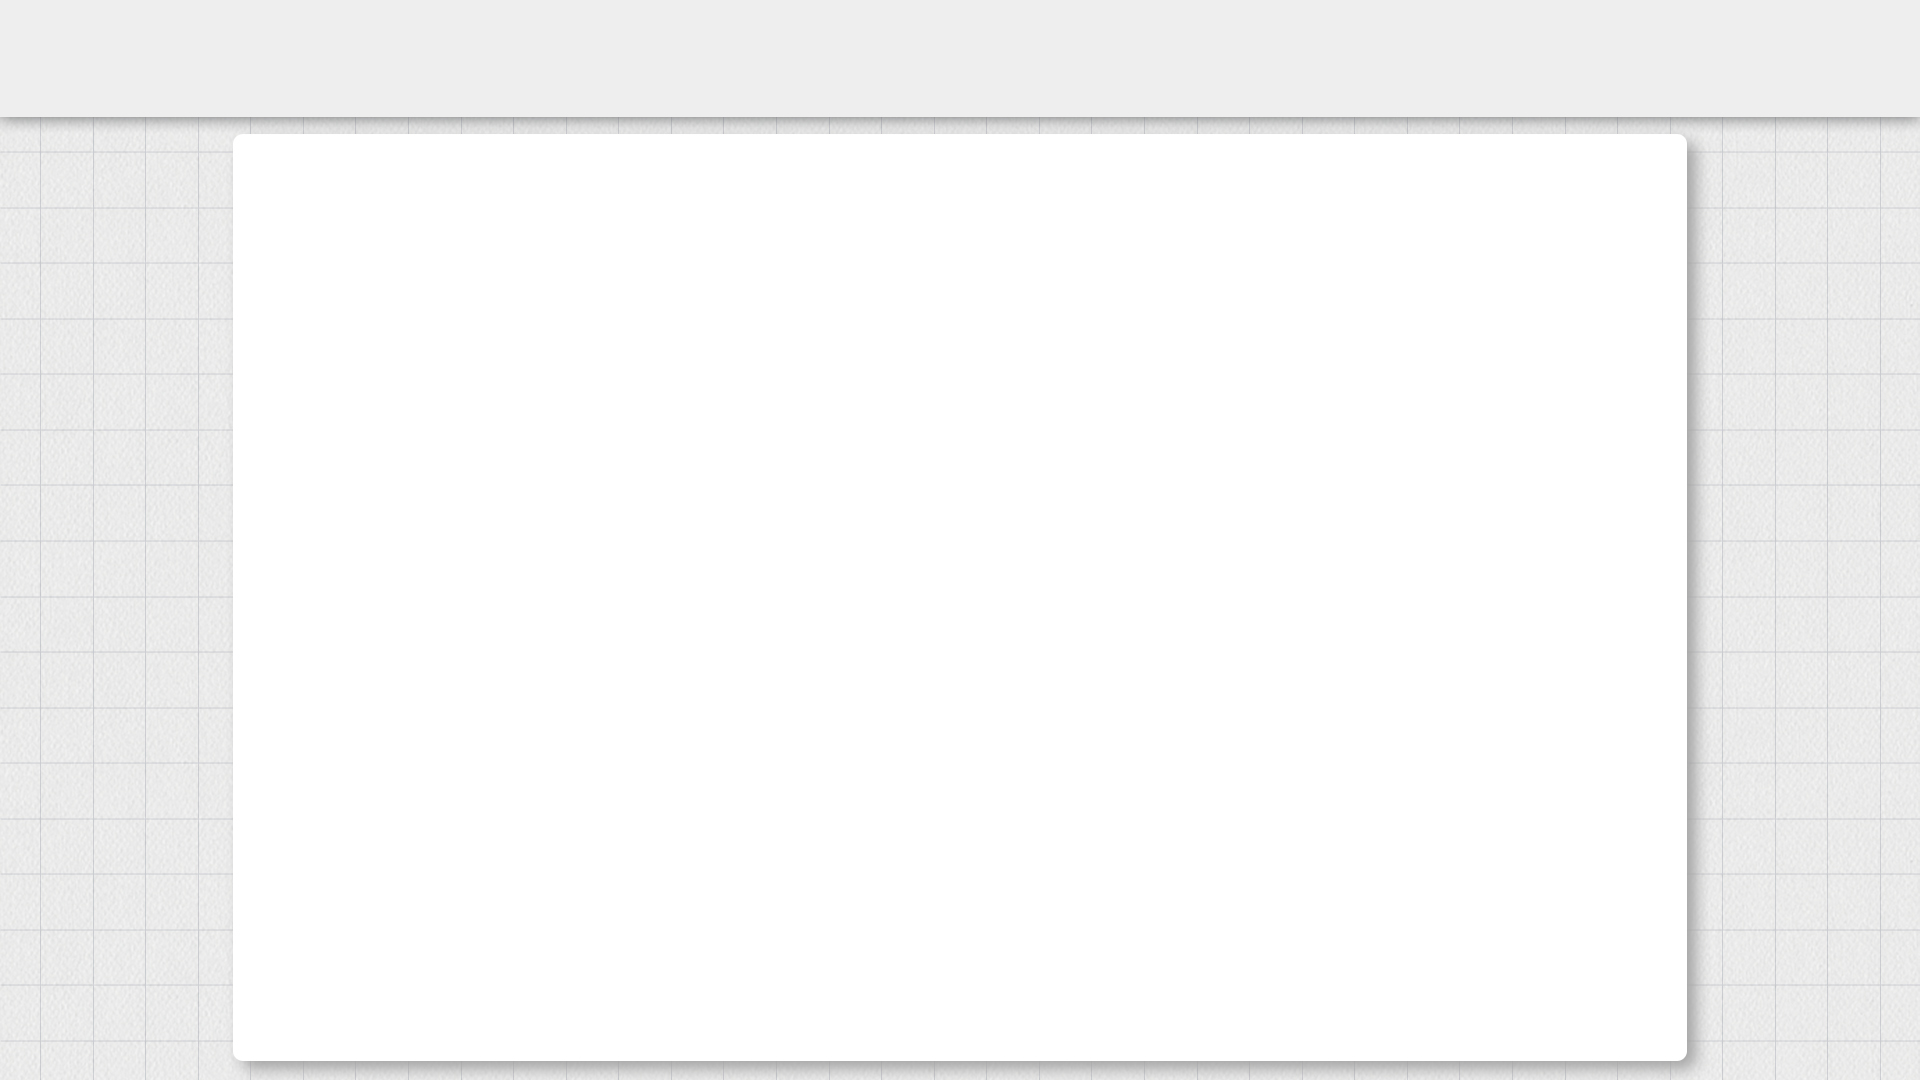
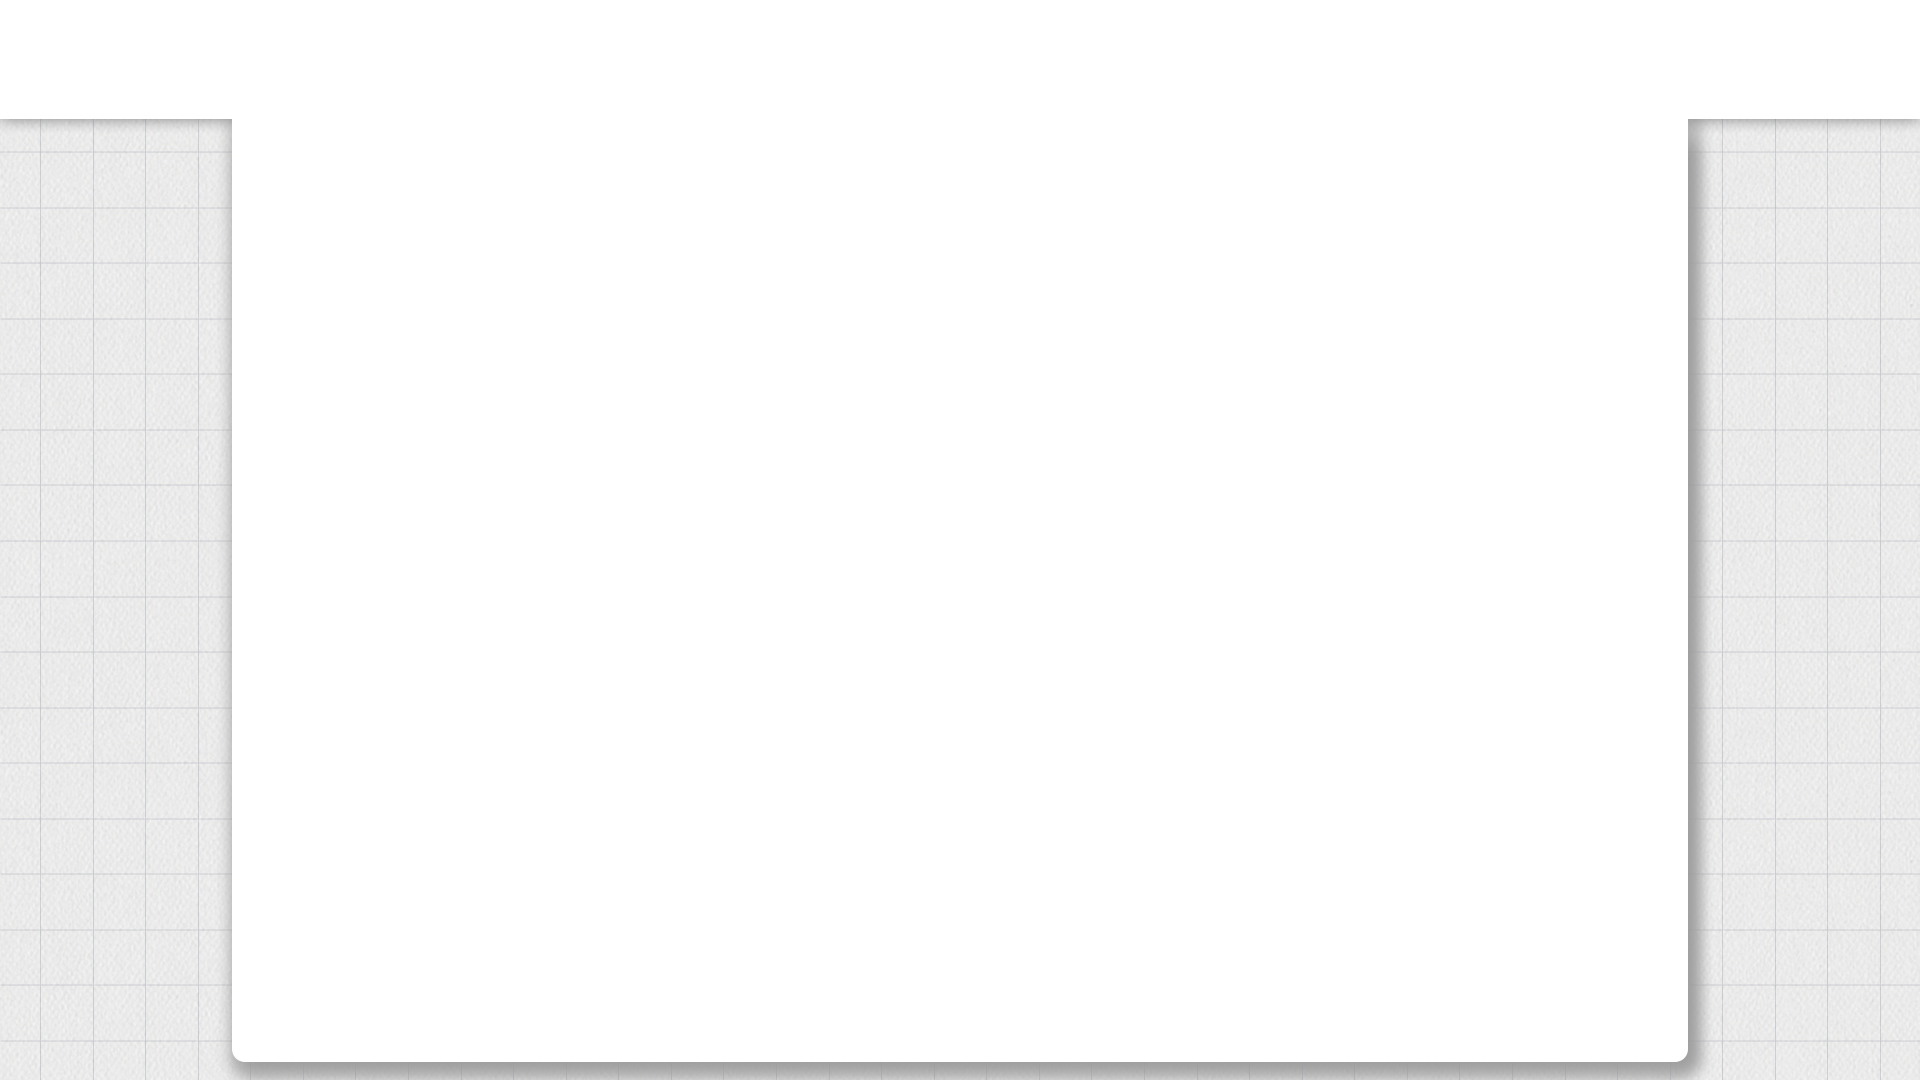
下拉菜单添加退出登录功能

Changed region(s): [[0.0938, 0.0917, 0.9062, 0.1528], [0.125, 0.9778, 0.9062, 1.0]]

diff --git a/src/components/NavigatorTabs.js b/src/components/NavigatorTabs.js
@@ -14,6 +14,10 @@ import ModalDropdown from 'react-native-modal-dropdown';
 import {DefaultTheme, NavigationContainer} from '@react-navigation/native';
 import {createNativeStackNavigator} from '@react-navigation/native-stack';
 import { log } from 'react-native-reanimated';
+import AsyncStorage from '@react-native-async-storage/async-storage';
+import {logout} from '../database/user'
+import Modal from '../components/Modal';
+import Button from '../components/Button';
 
 const Tab = createBottomTabNavigator();
 
@@ -63,6 +67,10 @@ const TabBar = ({state, navigation, descriptors, headerItems, pid}) => {
   } = React.useContext(GlobalContext);
 
   const {
+    dispatch,
+  } = React.useContext(Context);
+
+  const {
     state: {isTabBarShow},
   } = React.useContext(Context);
 
@@ -107,19 +115,35 @@ const TabBar = ({state, navigation, descriptors, headerItems, pid}) => {
     }
   };
 
-  
+  const [visible, setVisible] = React.useState(false);
+  const close = () => {
+    setVisible(false);
+  };
 
-  const type = ['采集平台', '数据同步','数据统计','用户设置']
+  const asklogOut = (route, index) => {
+    console.log('退出登录?');
+    setVisible(true)
+  }
+  const handleLogout = async () => {
+    await AsyncStorage.removeItem('userInfo');
+    await logout();
+    dispatch({type: 'userInfo', payload: null});
+    dispatch({type: 'isLogin', payload: false});
+    setVisible(false)
+  };
+
+  const type = ['采集平台', '数据同步','数据统计','用户设置','退出登录']
   
   // 分类选择
   _selectType = (indexA, value) => {
-    // console.log('---', indexA, value)
+    console.log('---', indexA, value)
       {state.routes.map((route, index) =>(
         indexA == '0' && indexA == index ? handlePress(route, index) :
         indexA == '1' && indexA == index ? handlePress(route, index) :
         indexA == '2' && indexA == index ? handlePress(route, index) :
         indexA == '3' && indexA == index ? handlePress(route, index) : <></>
       ))}
+      indexA == '4' ? asklogOut() : <></>
   }
   // 下拉列表分隔符
   _separator = () => {
@@ -145,22 +169,22 @@ const TabBar = ({state, navigation, descriptors, headerItems, pid}) => {
           {width: '100%'},
           tailwind.flexRow,
           // tailwind.flexGrow0,
-          theme.primaryBgStyle,
-          styles.boxShadow,
+          // theme.primaryBgStyle,
+          // styles.boxShadow,
           // styles.bgcolor,
-          {height},
-          {backgroundColor:'#eeeeee'}
+          // {height},
+          {backgroundColor:'rgba(255,255,255,0)'}
           // {top:50}
         ],
       ]}
       >
       {/* logo */}
-      <Image style={
+      {/* <Image style={
         { height: 55, width: 180, alignItems: 'center' }}
         source={require('../iconImg/logo.png')}
-      />
+      /> */}
       {/* 软件版本 */}
-      <Text
+      {/* <Text
         style={
           [
             {
@@ -172,9 +196,25 @@ const TabBar = ({state, navigation, descriptors, headerItems, pid}) => {
             }
           ]
         }
-      >v1.083</Text>
+      >v1.083</Text> */}
+      {/* 检测公司名称 */}
+      <Text
+        style={
+          [
+            {
+              fontSize:10,
+              color:'#394f86',
+              fontWeight: 'bold',
+              left:20,
+              top:15,
+              width:100,
+              textAlign:'center'
+            }
+          ]
+        }
+      >黑龙江省工程质量{'\n'}道桥检测中心有限公司</Text>
       {/* 导航样式一 中间导航按钮 */}
-      {state.routes.map((route, index) => (
+      {/* {state.routes.map((route, index) => (
         <TouchableOpacity
           key={index}
           onPress={() => handlePress(route, index)}
@@ -190,7 +230,7 @@ const TabBar = ({state, navigation, descriptors, headerItems, pid}) => {
             isActive={state.index === index}
           />
         </TouchableOpacity>
-      ))}
+      ))} */}
 
       {/* 用户信息 */}
       {/* <Pressable onPress={() => menuList()}>
@@ -202,15 +242,15 @@ const TabBar = ({state, navigation, descriptors, headerItems, pid}) => {
           <Text>{userInfo?.nickname}</Text>
         </View>
       </Pressable> */}
-      <View style={styles.user}>
+      {/* <View style={styles.user}> */}
         {/* 用户头像 */}
-        <Image style={{ height: 24, width: 24, alignItems: 'center' }}
+        {/* <Image style={{ height: 24, width: 24, alignItems: 'center' }}
             source={require('../iconImg/user.png')}
-        />
+        /> */}
         {/* 整个小间隔 */}
-        <Text>{' '}</Text>
+        {/* <Text>{' '}</Text>
         <Text>{userInfo?.nickname}</Text>
-      </View>
+      </View> */}
 
       {/* <View style={[tailwind.mX19,{width:'76%'}]}>
         <Headerbar items={headerItems || []} pid={''} />
@@ -225,11 +265,11 @@ const TabBar = ({state, navigation, descriptors, headerItems, pid}) => {
       )} */}
 
       {/* 导航样式二 下拉式一级导航菜单 */}
-      {/* <ModalDropdown style={[styles.user,{top:0}]}
+      <ModalDropdown style={[styles.user,{top:20}]}
         adjustFrame={this._adjustType}
         options={type} // 选项内容
         dropdownTextHighlightStyle={{color:'#2b427d',fontWeight:'800'}}
-        dropdownStyle={[{width:100,height:145,alignItems:'center'}]}
+        dropdownStyle={[{width:100,height:155,alignItems:'center'}]}
         dropdownTextStyle={[{width:80,textAlign:'center'}]}
         onSelect={this._selectType} // 点击选项时，执行的方法
         defaultValue={'采集平台'}
@@ -242,7 +282,26 @@ const TabBar = ({state, navigation, descriptors, headerItems, pid}) => {
           <Text>{' '}</Text>
           <Text>{userInfo?.nickname}</Text>
         </View>
-      </ModalDropdown> */}
+      </ModalDropdown>
+
+      <Modal onClose={close} visible={visible} title="退出登录" showHead>
+      <View style={[styles.modelBody, theme.primaryBgStyle,{height: 80}]}>
+        <View style={[tailwind.flexRow,tailwind.flex1, tailwind.mL2, tailwind.mT1]}>
+          <TouchableOpacity onPress={close}>
+            <Text style={[tailwind.mB1,tailwind.mX8,tailwind.mY8]}>取消</Text>
+          </TouchableOpacity>
+          
+          <View style={tailwind.mY1} />
+          <TouchableOpacity onPress={handleLogout}>
+            <Text style={[tailwind.mB1,tailwind.mX16,,tailwind.mY8]}>确认</Text>
+          </TouchableOpacity>
+          
+        </View>
+        
+        
+        
+      </View>
+    </Modal>
     </Animated.View>
   );
 };
@@ -251,15 +310,17 @@ const TabBar = ({state, navigation, descriptors, headerItems, pid}) => {
 export default function NavigatorTabs({routes, headerItems, pid}) {
   return (
     <Tab.Navigator header={false} tabBar={props => <TabBar {...props} />}>
+      {/* <Tab.Navigator header={false} tabBar={props => <TabBar {...props} />}> */}
+      {/* 删除tebBar={....}的内容可以去除自定义的一级菜单导航按钮 */}
       {routes.map(item => (
         <Tab.Screen
           key={item.name}
           {...item}
           options={{
             // 将默认的顶部导航栏高度设为0进行隐藏
-            // headerStyle: tailwind.h0,
+            headerStyle: tailwind.h0,
             // 将默认的顶部导航栏颜色设为与背景色一致
-            headerStyle: [{backgroundColor: '#e0e0e0'}], 
+            // headerStyle: [{backgroundColor: '#e0e0e0'}],  //此处headeStyle与上方选其一存在
             title: item.title,
             icon: item.icon,
             img: item.img,
@@ -305,5 +366,12 @@ const styles = StyleSheet.create({
     right:3,
     // height:20,
     // backgroundColor:'#fff'
-  }
+  },
+  modelBody: {
+    ...tailwind.pX4,
+    ...tailwind.pB4,
+    ...tailwind.w64,
+    ...tailwind.selfCenter,
+    ...tailwind.rounded,
+  },
 });
